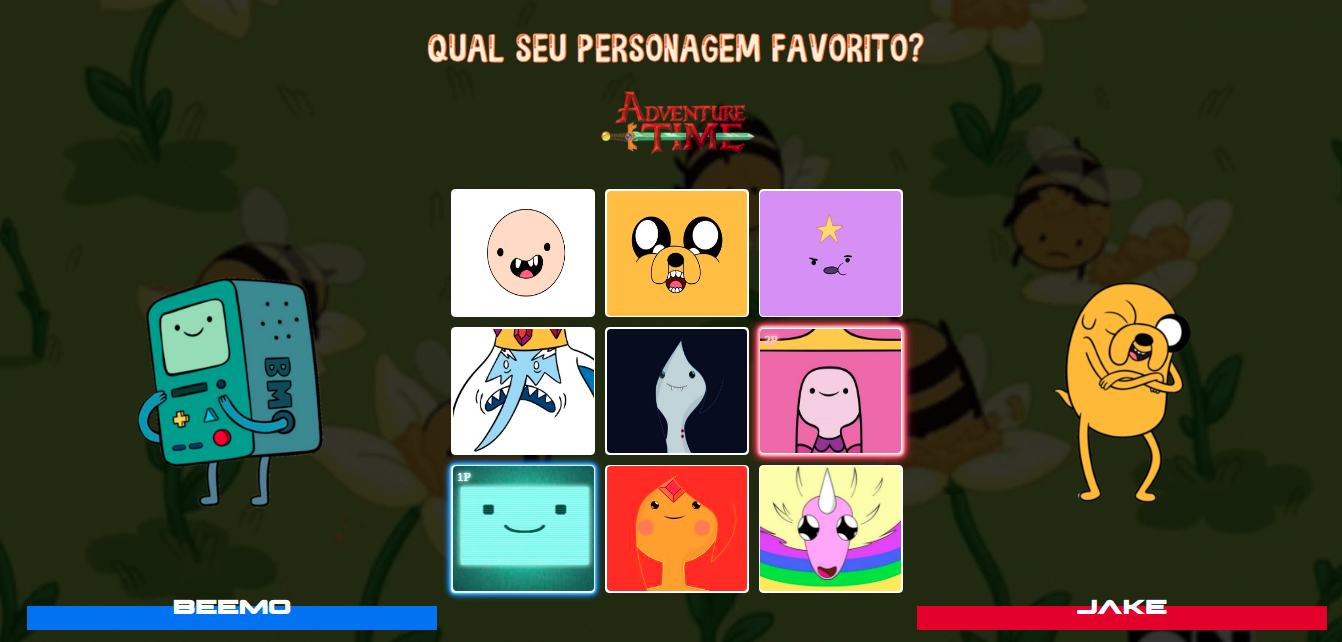
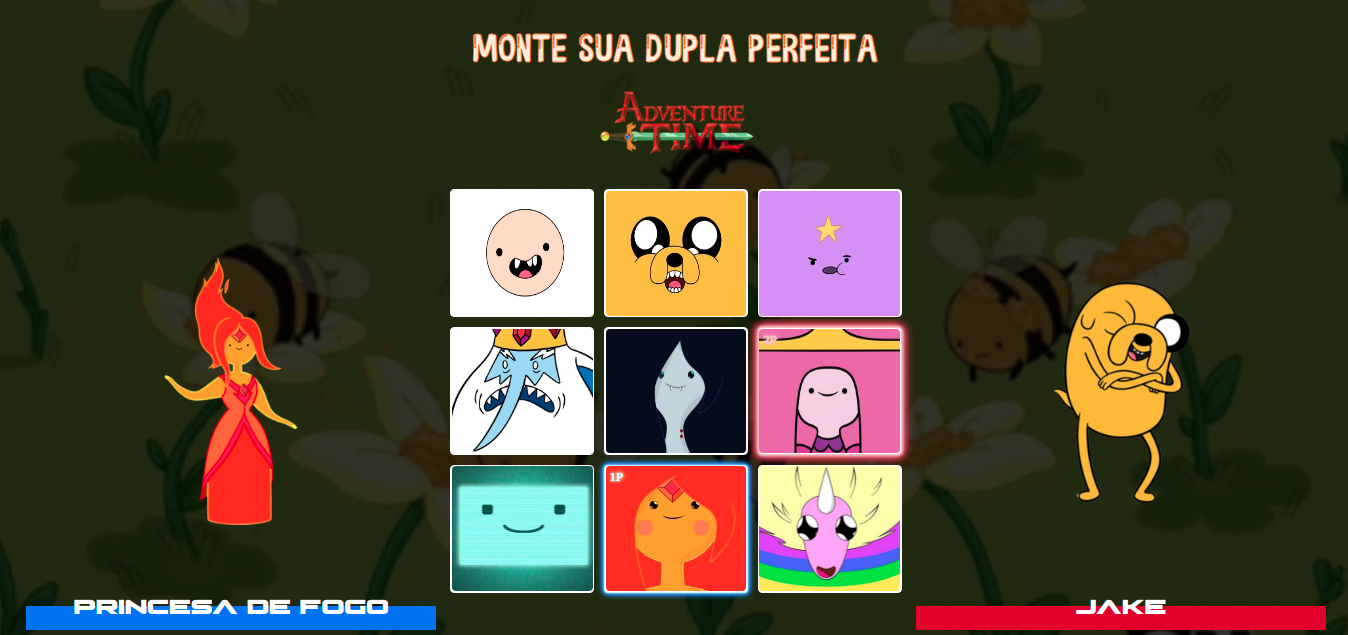
titulo do site

diff --git a/index.html b/index.html
@@ -17,7 +17,7 @@
   <body>
     <main>
      <header class="cabecalho">
-        <h1 class="titulo">Qual Seu Personagem Favorito?</h1>
+        <h1 class="titulo">Monte sua dupla perfeita</h1>
       </header>
       <div class="logo"><img  src="./src/imagens/logo.png"alt=”some text” width=200 height=100></div>
       <div class="selecao-de-personagens">
